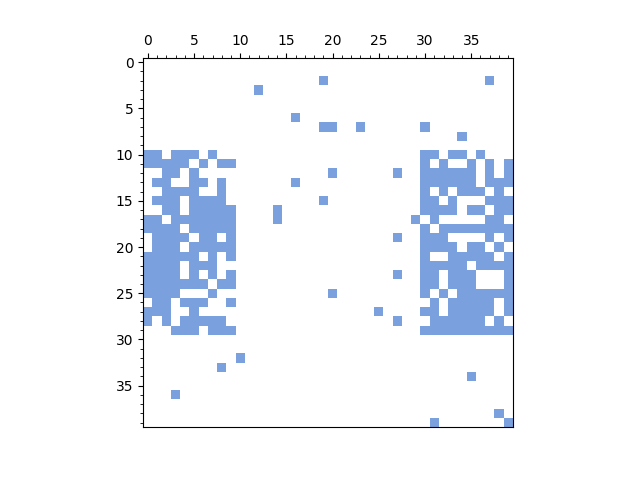
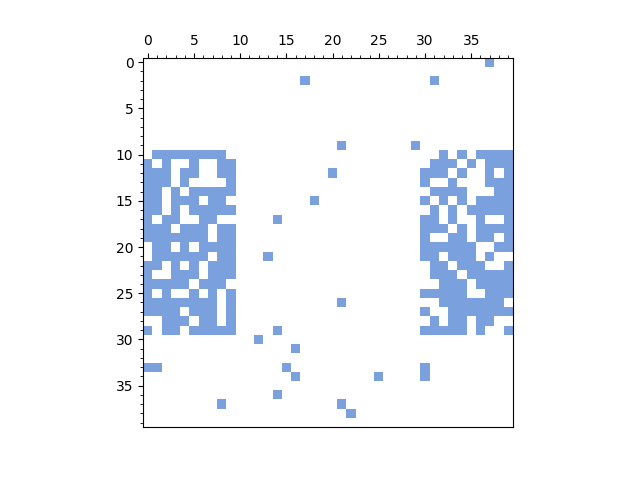
Modificando la velocidad

diff --git a/RRAM/Recombination.py b/RRAM/Recombination.py
@@ -54,7 +54,7 @@ def Generate_Oxigen(oxygen_state: np.array, num_oxygen: int):
     return oxygen_state
 
 
-def Move_OxygenIons(simu_time: float, oxygen_state: np.array, temperature: float, E_field: float, atom_size: float, factor: float, **kwargs):
+def Move_OxygenIons(paso_temp: float, oxygen_state: np.array, temperature: float, E_field: float, atom_size: float, factor: float, **kwargs):
     """
     Move the oxygen ions in the simulation based on the given parameters.
 
@@ -73,9 +73,9 @@ def Move_OxygenIons(simu_time: float, oxygen_state: np.array, temperature: float
     # Obtengo los valores de las constantes si las estoy pasando como argumentos
     if kwargs:
         # Obtengo el valor de las constantes que necesita la función
-        t_0 = kwargs.get('t_0', cte.t_0)
-        gamma_drift = kwargs.get('gamma_drift', cte.gamma_drift)
-        E_m = kwargs.get('E_m', cte.E_m)
+        t_0 = float(kwargs.get('vibration_frequency'))
+        gamma_drift = float(kwargs.get('drift_coefficient'))
+        E_m = float(kwargs.get('migration_energy'))
     else:
         t_0 = cte.t_0
         gamma_drift = cte.gamma_drift
@@ -85,14 +85,14 @@ def Move_OxygenIons(simu_time: float, oxygen_state: np.array, temperature: float
     oxygen_state_before = np.copy(oxygen_state)
 
     # Obtengo la velocidad de los iones de oxígeno v = (a/t0)*exp(−Em/kT) sinh(q * γ_drift * F/kT)
-    senoh = math.sinh((2*elementary_charge * E_field * gamma_drift) / (k_b_ev * temperature))
+    senoh = math.sinh((atom_size * E_field * gamma_drift) / (2 * k_b_ev * temperature))
     exp_velocity = math.exp(-E_m / (k_b_ev * temperature))
 
     # el t_0 es el valor de 1/t_0 que lo pongo directamente y "factor" es algo que introduzco a mano para ajustar la velocidad
-    oxigen_velocity = factor * t_0 * atom_size * (senoh * exp_velocity)
+    oxigen_velocity = 2 * factor * t_0 * atom_size * (senoh * exp_velocity)
 
     # Calculo la cantidad de "casillas" que se moverá el ion de oxígeno
-    displacement = int(round(oxigen_velocity * simu_time / atom_size))
+    displacement = int(round((oxigen_velocity * paso_temp) / atom_size))
 
     if displacement == 0:
         pass
@@ -114,7 +114,7 @@ def Move_OxygenIons(simu_time: float, oxygen_state: np.array, temperature: float
                         oxygen_state[j, i] = 0
                         # Representate.RepresentateState(oxygen_state, f'Figuras/oxigen_state_{simu_time}_pasa_a.png')
 
-    return oxygen_state, oxigen_velocity, displacement
+    return oxygen_state, oxigen_velocity, displacement, senoh
 
 
 def Recombine(actual_state: np.array, oxygen_state: np.array):
@@ -129,11 +129,15 @@ def Recombine(actual_state: np.array, oxygen_state: np.array):
     np.array: The updated actual state after recombination.
     """
 
+    # Duplico la matriz de oxígeno y configuraciones para no modificar la original
+    oxygen_state_before = np.copy(oxygen_state)
+    actual_state_before = np.copy(actual_state)
+
     # Recorro la matriz de oxígeno para saber en qué posiciones hay oxígeno
-    for i in range(oxygen_state.shape[0]):
-        for j in range(oxygen_state.shape[1]):
+    for i in range(oxygen_state_before.shape[0]):
+        for j in range(oxygen_state_before.shape[1]):
             # Si hay oxígeno en la posición de la matriz de oxígeno y hay un hueco en la matriz de estado actual
-            if oxygen_state[i, j] == 1 and actual_state[i, j] == 1:
+            if oxygen_state_before[i, j] == 1 and actual_state_before[i, j] == 1:
                 # Si hay un hueco, calculo la probabilidad de recombinación
                 prob_recom = np.random.rand()
                 # Si la probabilidad es menor a 0.5, recombinan:

diff --git a/RRAM_Simulation.py b/RRAM_Simulation.py
@@ -66,10 +66,10 @@ for num_simulation in range(len(sim_parmtrs)):
     paso_temporal = total_simulation_time / num_pasos
 
     # Creo el vector de datos como una matriz de num_pasos filas y las columnas necesarias (x,y,probabilidad recombionacion, velocidad)
-    colunm_number = 4
+    colunm_number = 5
     data = np.zeros((num_pasos, colunm_number))
     # Creo el excel donde voy a sacar todos los datos
-    df = pd.DataFrame(columns=['Tiempo simulacion', 'velocidad', 'desplazamiento', 'prob_generacion'])
+    df = pd.DataFrame(columns=['Tiempo simulacion', 'velocidad', 'desplazamiento', 'prob_generacion', 'sinh'])
 
     for k in tqdm(range(1, num_pasos+1)):
         # Guardo el estado anterior
@@ -97,25 +97,26 @@ for num_simulation in range(len(sim_parmtrs)):
         E_field = SimpleElectricField(voltaje, device_size)
         # temperatura = Temperature_Joule(voltaje, Corriente, T_0=350) TODO: Estoy usando la temperatura constante
 
+        # TODO: REVISAR PROBABILIDAD QUE A VECES SALE MAYOR DE 1
+        # TODO: HACER UN REESCALADO DE LOS VALORES PARA EVITAR TENER QUE TRABAJAR CON NUMEROS TAN GRANDES
+        prob_generacion = Generation.generation(paso_temporal, E_field, temperatura)
+        # TODO: Revisa COMO SE GENERA LA PROBABILIDAD DE GENERACIÓN
         # Calculo la probabilidad de generación o recombinación para ello recorro toda la matriz
         for i in range(x_size):
             for j in range(y_size):
                 if actual_state[i, j] == 0:
-                    # TODO: REVISAR PROBABILIDAD QUE A VECES SALE MAYOR DE 1
-                    # TODO: HACER UN REESCALADO DE LOS VALORES PARA EVITAR TENER QUE TRABAJAR CON NUMEROS TAN GRANDES
-                    prob_generacion = Generation.generation(paso_temporal, E_field, temperatura)
                     random_number = np.random.rand()
                     if random_number < prob_generacion:
-                        actual_state[i, j] = 1  # Generación
+                        actual_state[i, j] = 1  # Generación de una vacante
 
-        # Genero los oxígenos TODO: cambiar el número de oxígenos generados por un parámetro del init
-        oxygen_state = Recombination.Generate_Oxigen(oxygen_state, 3)
+        # Genero los oxígenos
+        oxygen_state = Recombination.Generate_Oxigen(oxygen_state, 5)
 
         # Muevo los oxígenos
-        oxygen_state, velocidad, desplazamiento = Recombination.Move_OxygenIons(
-            simulation_time, oxygen_state, temperatura, E_field, atom_size, factor=1, **sim_ctes[num_simulation])
+        oxygen_state, velocidad, desplazamiento, senh = Recombination.Move_OxygenIons(
+            paso_temporal, oxygen_state, temperatura, E_field, atom_size, factor=1, **sim_ctes[num_simulation])
 
-        data[k-1] = np.array([simulation_time, velocidad, desplazamiento, prob_generacion])
+        data[k-1] = np.array([simulation_time, velocidad, desplazamiento, prob_generacion, senh])
 
         # Obtengo la nueva configuración
         actual_state, oxygen_state = Recombination.Recombine(actual_state, oxygen_state)
@@ -137,7 +138,7 @@ for num_simulation in range(len(sim_parmtrs)):
 
     # Cuando percola no se completa la matriz de datos, por lo que la recorto
     data_filtrados = np.array([fila for fila in data if fila[-1] != 0.0])
-    np.savetxt(f'Results/resultados_{num_simulation}.csv', data_filtrados, header='tiempo simulacion, velocidad, desplazamiento, prob_generacion',
+    np.savetxt(f'Results/resultados_{num_simulation}.csv', data_filtrados, header='tiempo simulacion, velocidad, desplazamiento, prob_generacion, sinh',
                comments=' ', delimiter=', ')
 
     # Represento los datos de la simulación

diff --git a/Init_simulation.py b/Init_simulation.py
@@ -1,13 +1,14 @@
 import os
 import shutil
 import pickle
-from RRAM import *
 import pandas as pd
+
+from RRAM import *
 from RRAM import Recombination
 from RRAM import Constants as cte
 
 # Número de simulaciones que realizo
-num_simulations = 9
+num_simulations = 2
 
 # Defino la carpeta donde se guardan los datos iniciales de la simulación
 carpeta = 'Init_data'
@@ -23,7 +24,6 @@ os.makedirs(carpeta)
 # ------------------------------------------------------------------------------------------------------------------------------------------------------
 # Defino los parámetros de la simulación
 # ------------------------------------------------------------------------------------------------------------------------------------------------------
-
 device_size = np.ones(num_simulations) * 10e-9  # m
 atom_size = np.ones(num_simulations) * 0.25e-9  # m
 num_trampas = np.ones(num_simulations, dtype=int) * 300
@@ -35,12 +35,12 @@ priv_y_sup_left = np.ones(num_simulations, dtype=int) * 10
 priv_y_inf_left = np.ones(num_simulations, dtype=int) * 10
 priv_x_left = np.ones(num_simulations, dtype=int) * 10
 
-total_simulation_time = np.ones(num_simulations) * 2
+total_simulation_time = np.ones(num_simulations) * 10
 num_pasos = np.ones(num_simulations, dtype=int) * 10000
-voltaje_final = np.ones(num_simulations) * 1
+voltaje_final = np.ones(num_simulations) * 3
 paso_guardar = np.ones(num_simulations, dtype=int) * 1
 
-init_temp = np.ones(num_simulations) * 350
+init_temp = np.ones(num_simulations) * 300
 initial_elec_field = np.ones(num_simulations) * 0
 initial_voltaje = np.ones(num_simulations) * 0
 initial_current = np.ones(num_simulations) * 0
@@ -110,7 +110,7 @@ t_0 = np.ones(num_simulations) * cte.t_0  # Characteristic vibration frequency o
 E_m = np.ones(num_simulations) * cte.E_m  # Migration energy of oxygen ions in HfOx
 
 # Drift coefficient of oxygen ions due to an external field FIXME: Cambiando valores para ver cuando la velocidad es importante
-gamma_drift = np.linspace(1e8, 9e8, 9)
+gamma_drift = np.ones(num_simulations) * 8
 # gamma_drift = np.ones(num_simulations) * cte.gamma_drift  # Drift coefficient of oxygen ions due to an external field
 
 # Creo un dataframe nuevo con las constantes de la simulación

diff --git a/RRAM/Generation.py b/RRAM/Generation.py
@@ -72,22 +72,22 @@ def initial_state_priv(Eje_x: int, Eje_y: int, num_trampas: int, regiones_pesos:
     return InitialState
 
 
-def generation(simulation_time: np.ndarray, electric_field: np.ndarray,
-               temperature: np.ndarray, carga_vacante: float = 2,) -> np.ndarray:
+def generation(paso_temporal: float, electric_field: float,
+               temperature: float, carga_vacante: float = 2) -> float:
     """
-    Calculate the generation rate of RRAM devices.
+    Calculate the generation rate of charge carriers in a RRAM device.
 
     Parameters:
-        - simulation_time (numpy.ndarray): Array of simulation time values.
-        - electric_field (numpy.ndarray): Array of electric field values.
-        - temperature (numpy.ndarray): Array of temperature values.
-        - carga_vacante (float, optional): Vacancy charge value (default: 2).
+    - paso_temporal (float): The time step for the simulation.
+    - electric_field (float): The electric field applied to the device.
+    - temperature (float): The temperature of the device.
+    - carga_vacante (float, optional): The vacancy charge. Default is 2.
 
     Returns:
-    - numpy.ndarray
-        Array of generation rates.
+    - float: The generation rate of charge carriers.
+
     """
-
     exponente = (E_a - (gamma * carga_vacante * np.abs(electric_field))) / (k_b_ev * temperature)
+    prob_generacion = paso_temporal * t_0 * (np.exp(-exponente))
 
-    return (simulation_time * t_0 * (np.exp(-exponente)))
+    return prob_generacion

diff --git a/RRAM/Constants.py b/RRAM/Constants.py
@@ -2,9 +2,6 @@
 import numpy as np
 from scipy.constants import Boltzmann, elementary_charge
 
-# Carga elemental del electrón
-electron_charge = elementary_charge
-
 # Valor de la constante de Boltzmann en eV/K
 k_b_ev = Boltzmann / elementary_charge
 
@@ -25,7 +22,7 @@ beta_0 = 3e3
 L_p = 1e-9
 
 # Coeficiente de deriva de los iones de oxígeno debido a la presencia de un campo eléctrico externo
-gamma_drift = 5e8
+gamma_drift = 8
 
 # Potencial de migración de los iones de oxígeno en eV
 E_m = 1.0

diff --git a/RRAM/Plot_PostProcess.py b/RRAM/Plot_PostProcess.py
@@ -47,8 +47,8 @@ def Plot_panel(data_path: str):
     ax3.set_title('Probabilidad generacion')
 
     # Creo el tercer subplot
-    ax4.plot(x, y[:, 2])
-    ax4.set_title('Probabilidad generacion')
+    ax4.plot(x, y[:, 3])
+    ax4.set_title('sinh')
 
     # Ajustamos el espacio entre los plots
     fig.tight_layout()
